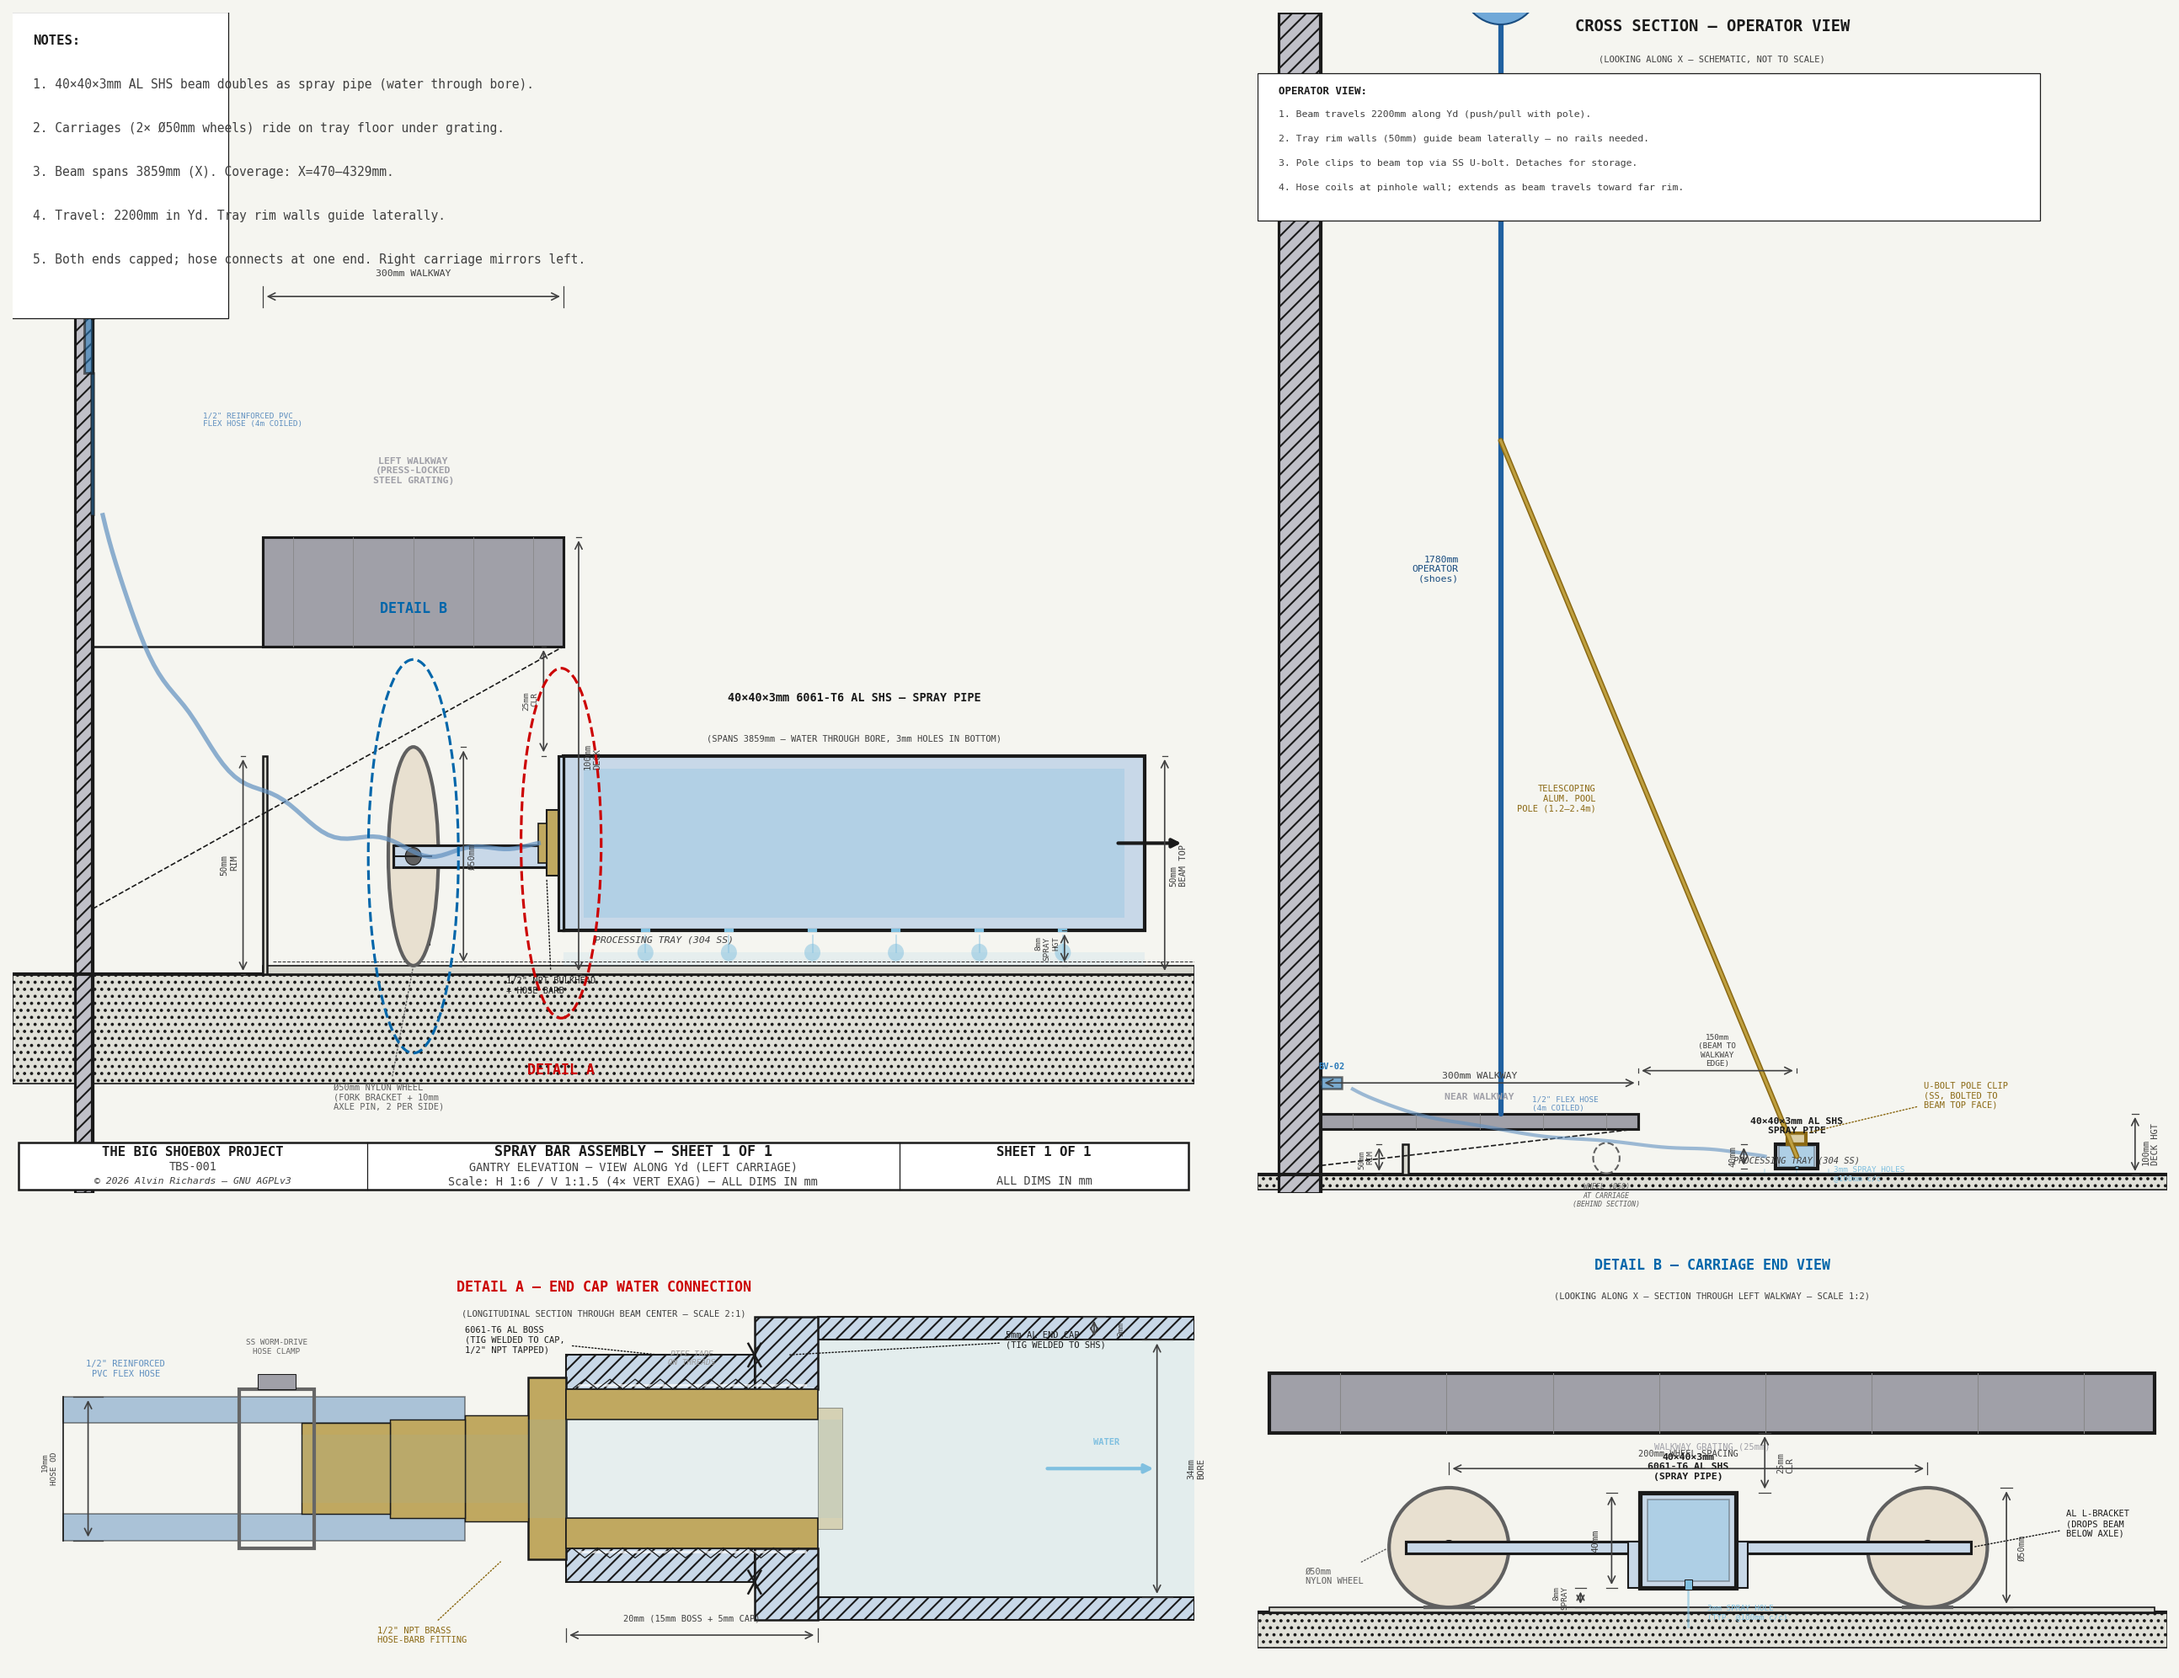
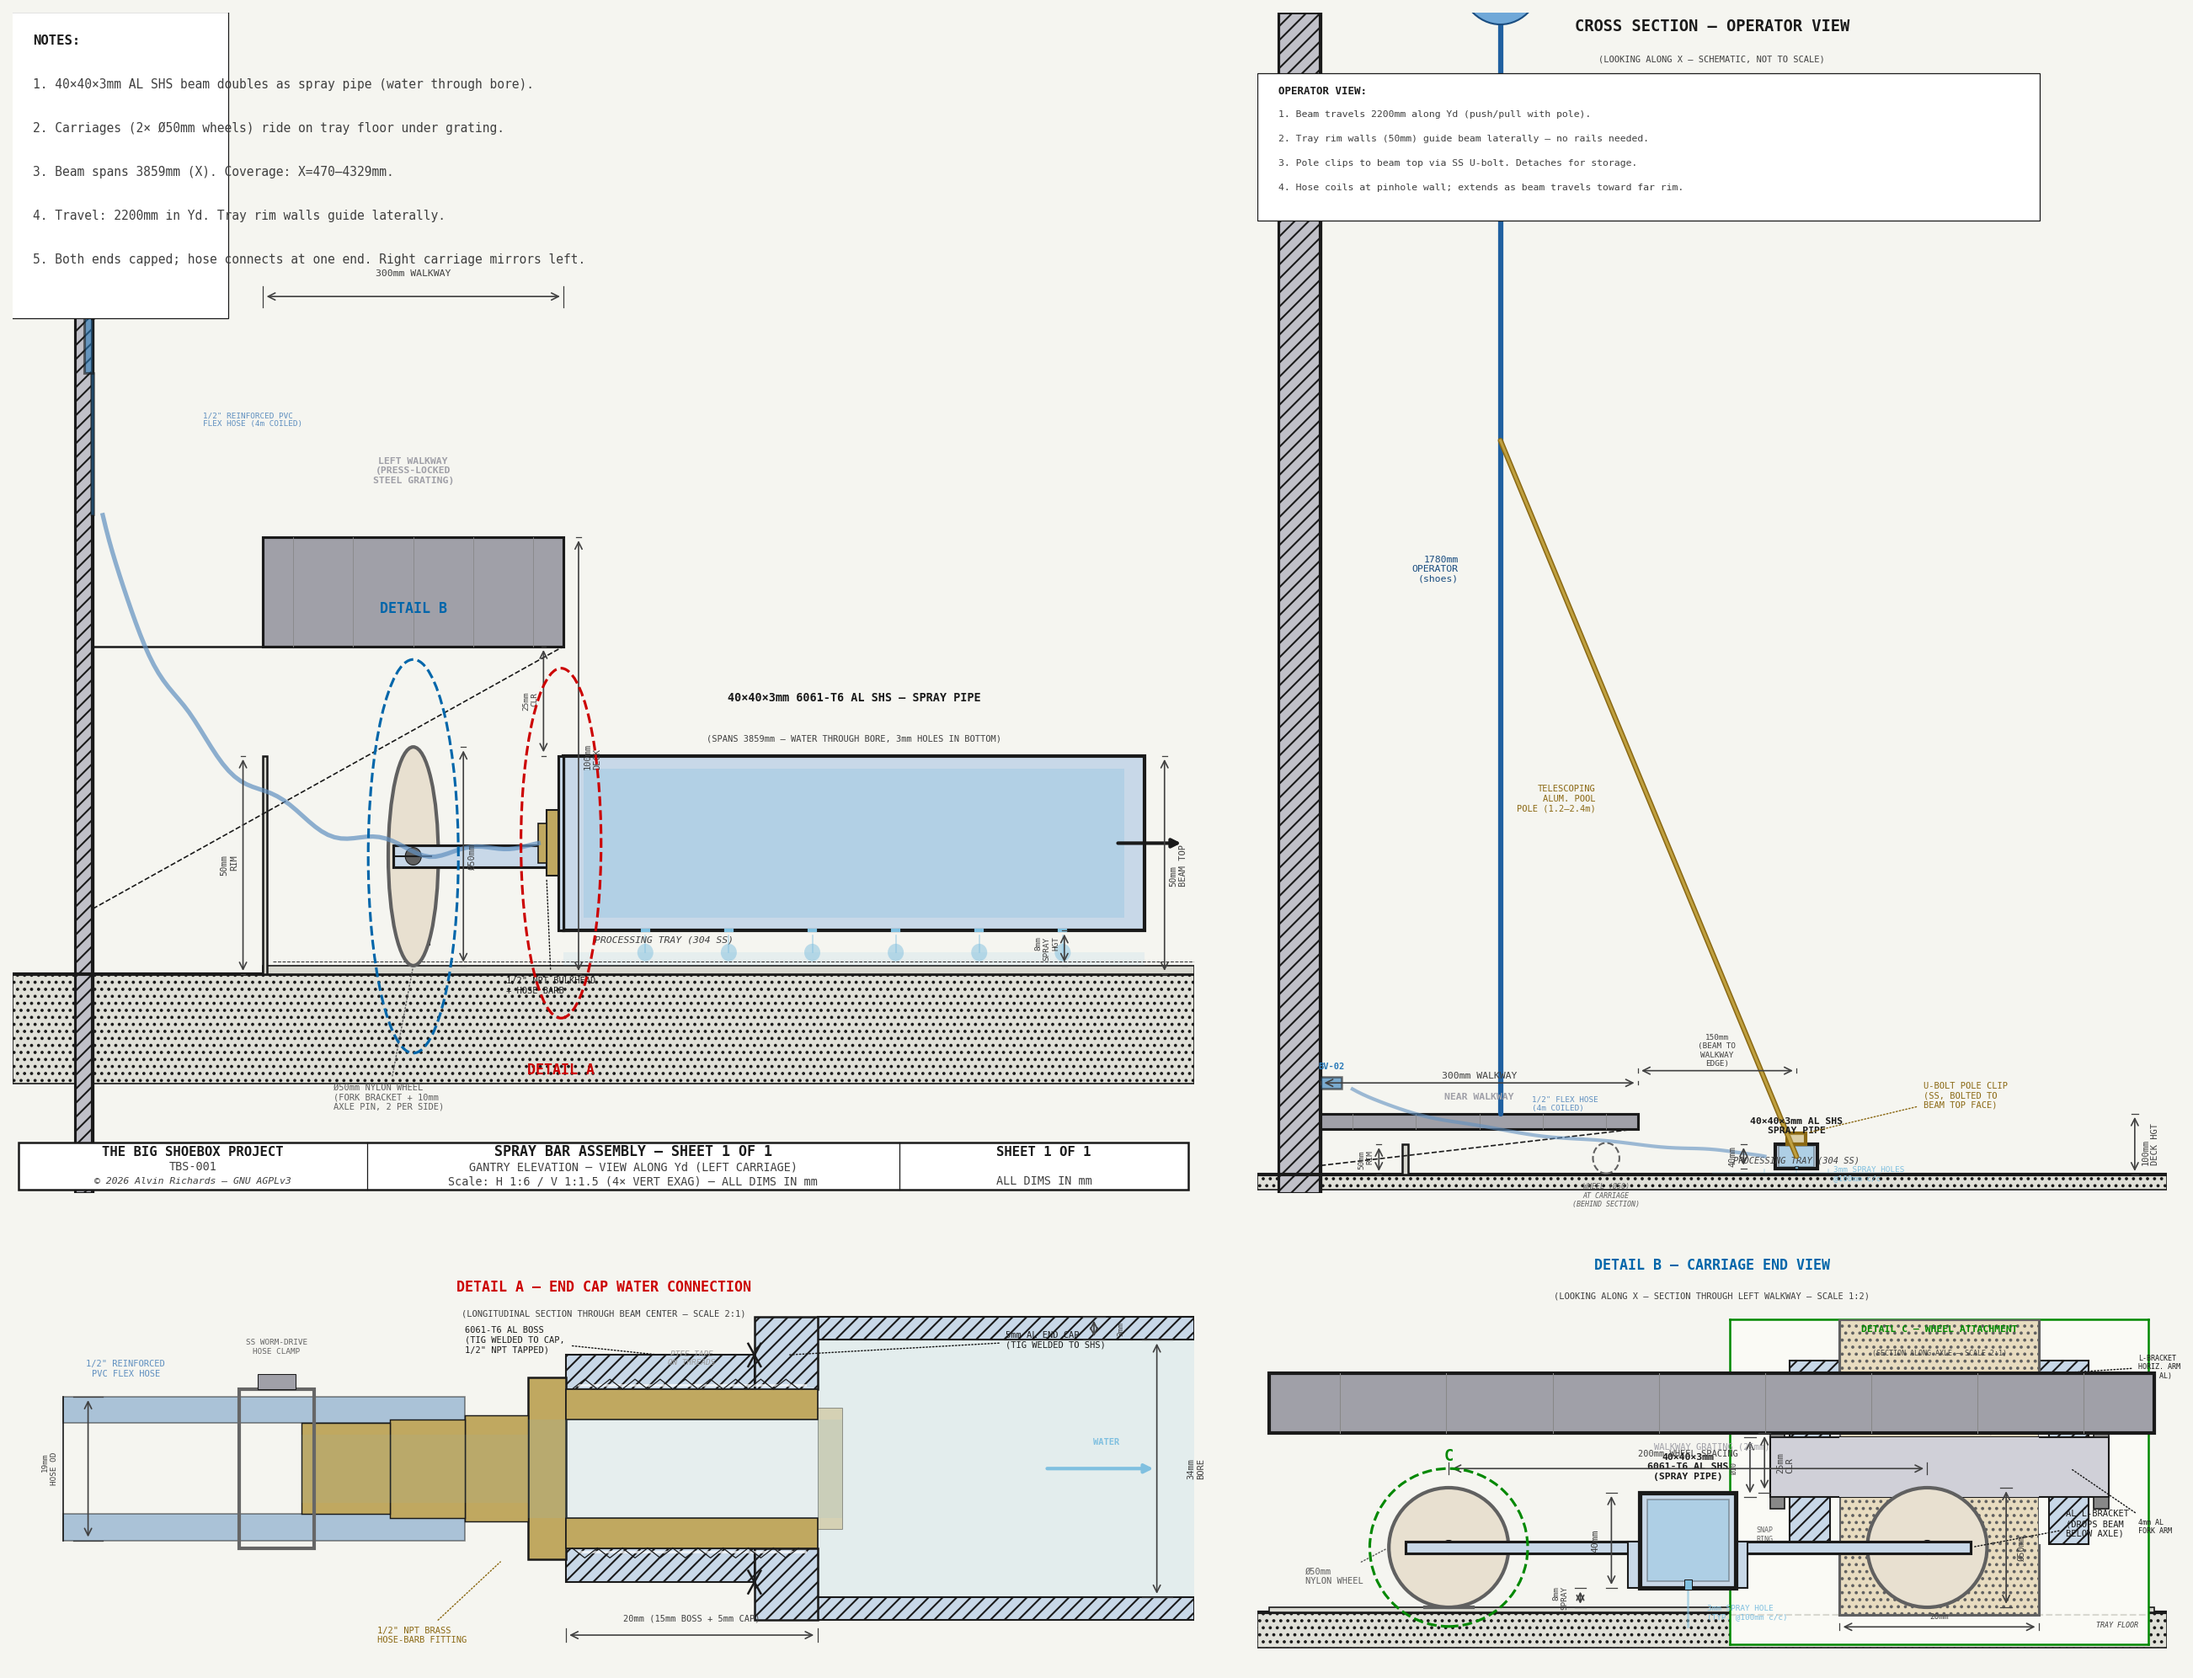
Spray bar diagram: add Detail C — wheel attachment section
Inset on Detail B shows section along axle at 2:1 scale: 4mm AL
fork bracket arms straddle Ø50mm nylon wheel with 1mm clearance,
Ø10mm SS axle pin passes through, snap rings at each end retain
the axle.  Fork tops connect to L-bracket horizontal arm (5mm AL).
Green dashed callout circle on left wheel in carriage end view.

diff --git a/generate_spray_bar_diagram.py b/generate_spray_bar_diagram.py
@@ -1013,6 +1013,121 @@ draw_dim_v(ax_c, cy(wheel2_yd + WHEEL_DIA / 2 + 8),
            cz(TRAY_FLOOR_Z), cz(TRAY_FLOOR_Z + WHEEL_DIA),
            f"Ø{WHEEL_DIA}mm", offset=8 / SC_C, fs=5, font=FONT, right=True)
 
+# ── Detail C callout on Detail B ─────────────────────────────────────────
+ax_c.add_patch(Circle((cy(wheel1_yd), cz(WHEEL_AXLE_Z)),
+                        (WHEEL_DIA / 2 + 8) / SC_C,
+                        fc="none", ec="#008800", lw=1.5, ls="--", zorder=20))
+ax_c.text(cy(wheel1_yd), cz(WHEEL_AXLE_Z + WHEEL_DIA / 2 + 10),
+          "C", ha="center", va="bottom", fontsize=9, color="#008800",
+          fontweight="bold", **FONT, zorder=20)
+
+
+# ─────────────────────────────────────────────────────────────────────────────
+# DETAIL C INSET — Wheel attachment (section along axle centerline)
+# Shows fork bracket arms, nylon wheel bore, axle pin, snap-ring retention,
+# and connection to L-bracket horizontal arm.
+# ─────────────────────────────────────────────────────────────────────────────
+ax_w = ax_c.inset_axes([0.52, 0.04, 0.46, 0.85])
+ax_w.set_facecolor("#FAFAF5")
+for spine in ax_w.spines.values():
+    spine.set_edgecolor("#008800")
+    spine.set_linewidth(1.2)
+ax_w.tick_params(left=False, bottom=False, labelleft=False, labelbottom=False)
+
+w_xl, w_xr = -21, 21
+w_yb, w_yt = -30, 25
+ax_w.set_xlim(w_xl, w_xr)
+ax_w.set_ylim(w_yb, w_yt)
+
+ax_w.text(0, w_yt - 1,
+          "DETAIL C — WHEEL ATTACHMENT",
+          ha="center", va="top", fontsize=5.5, color="#008800",
+          fontweight="bold", **FONT, zorder=20)
+ax_w.text(0, w_yt - 5,
+          "(SECTION ALONG AXLE — SCALE 2:1)",
+          ha="center", va="top", fontsize=4, color=C_DIM,
+          **FONT, zorder=20)
+
+# Section coordinates: X along axle, Y vertical (mm)
+# Axle center at origin.
+#   Fork arms:  X = -15..-11 (left),  +11..+15 (right), 4mm thick
+#   Wheel:      X = -10..+10, Ø50mm → Y = -25..+25
+#   Axle pin:   X = -17..+17, Ø10mm → Y = -5..+5
+#   L-bracket:  Y = +13..+18 (5mm arm above fork tops)
+
+C_NYLON_FILL = "#E8DCC0"
+
+# ── L-bracket horizontal arm (cut — hatched) ─────────────────────────────
+ax_w.add_patch(Rectangle((-15, 13), 30, 5,
+               fc=C_ALUM_FILL, ec=C_FRAME, lw=1.0, hatch="///", zorder=3))
+
+# ── Left fork arm (cut — hatched) ────────────────────────────────────────
+ax_w.add_patch(Rectangle((-15, -13), 4, 26,
+               fc=C_ALUM_FILL, ec=C_FRAME, lw=1.0, hatch="///", zorder=4))
+
+# ── Right fork arm (cut — hatched) ───────────────────────────────────────
+ax_w.add_patch(Rectangle((11, -13), 4, 26,
+               fc=C_ALUM_FILL, ec=C_FRAME, lw=1.0, hatch="///", zorder=4))
+
+# ── Nylon wheel body (cut — dot hatch) ───────────────────────────────────
+ax_w.add_patch(Rectangle((-10, -25), 20, 50,
+               fc=C_NYLON_FILL, ec=C_WHEEL, lw=1.5, hatch="...", zorder=3))
+
+# ── Clearance gaps fork ↔ wheel (1mm each side) ─────────────────────────
+for gap_x in [-11, 10]:
+    ax_w.add_patch(Rectangle((gap_x, -13), 1, 26,
+                   fc="#FAFAF5", ec="none", zorder=3.5))
+
+# ── Axle pin (not cut — solid fill, passes through) ─────────────────────
+ax_w.add_patch(Rectangle((-17, -5), 34, 10,
+               fc="#D0D0D8", ec=C_FRAME, lw=1.0, zorder=5))
+
+# Clear bore through wheel (axle sits in this)
+ax_w.add_patch(Rectangle((-10, -5), 20, 10,
+               fc="#D0D0D8", ec="none", zorder=5))
+
+# ── Snap rings at axle ends (retain axle in fork) ────────────────────────
+for sr_x in [-17, 15.5]:
+    ax_w.add_patch(Rectangle((sr_x, -7), 1.5, 2,
+                   fc="#888888", ec=C_FRAME, lw=0.8, zorder=6))
+    ax_w.add_patch(Rectangle((sr_x, 5), 1.5, 2,
+                   fc="#888888", ec=C_FRAME, lw=0.8, zorder=6))
+
+# ── Tray floor reference ─────────────────────────────────────────────────
+ax_w.plot([w_xl, w_xr], [-25, -25],
+          color=C_TRAY, lw=1.0, ls="--", zorder=2)
+ax_w.text(w_xr - 1, -26, "TRAY FLOOR",
+          ha="right", va="top", fontsize=4, color=C_DIM,
+          style="italic", **FONT, zorder=15)
+
+# ── Labels ────────────────────────────────────────────────────────────────
+leader(ax_w, 13, 16, w_xr - 1, w_yt - 8,
+       "L-BRACKET\nHORIZ. ARM\n(5mm AL)",
+       fs=4, color=C_FRAME, font=FONT, zorder=20)
+
+leader(ax_w, 13, 0, w_xr - 1, -10,
+       "4mm AL\nFORK ARM",
+       fs=4, color=C_FRAME, font=FONT, zorder=20)
+
+ax_w.text(0, -18, "Ø50mm NYLON\nWHEEL (CUT)",
+          ha="center", va="top", fontsize=4, color=C_WHEEL,
+          **FONT, zorder=20)
+
+leader(ax_w, 5, 5, 5, 10,
+       "Ø10mm SS\nAXLE PIN",
+       fs=4, color="#888888", font=FONT, zorder=20)
+
+ax_w.text(-17.5, -10, "SNAP\nRING",
+          ha="center", va="top", fontsize=4, color="#666666",
+          **FONT, zorder=20)
+
+# ── Dimensions ────────────────────────────────────────────────────────────
+draw_dim_h(ax_w, -10, 10, w_yb + 3,
+           "20mm", offset=2, fs=4.5, font=FONT)
+
+draw_dim_v(ax_w, w_xl + 2, -5, 5,
+           "Ø10", offset=2, fs=4, font=FONT)
+
 
 # ── Save ──────────────────────────────────────────────────────────────────
 os.makedirs("diagrams", exist_ok=True)
